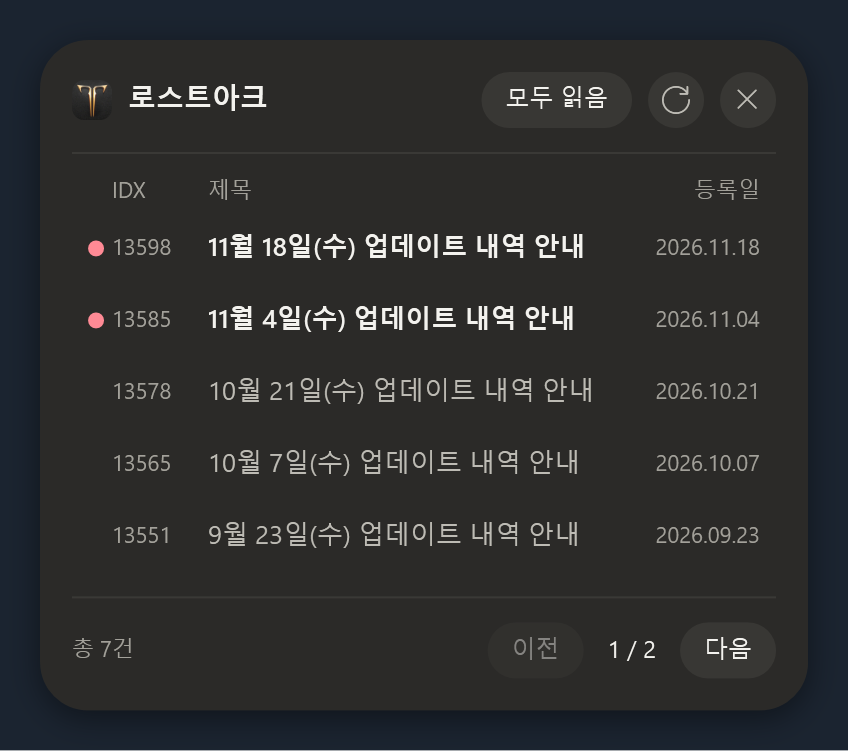
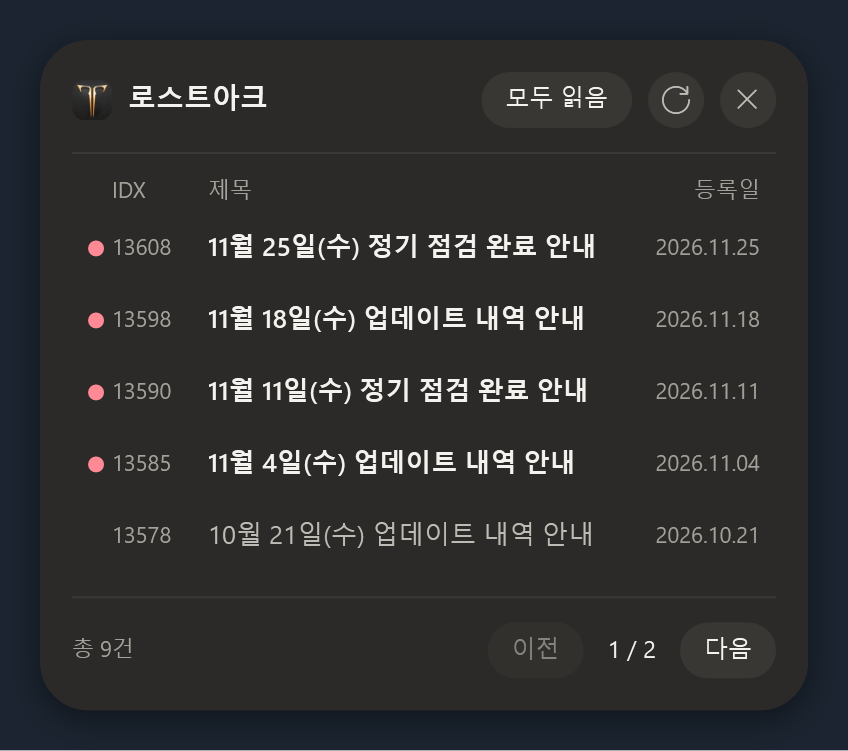
Lost Ark: also show "정기 점검 완료" notices, and fix today's dates
Weekly maintenance ends with either "업데이트 내역 안내" or
"정기 점검 완료 안내" (all 108 regular maintenances from 2024-11 to
2026-11), and the widget only looked for the first, so it missed every
other week lately.

- Providers take ExtraUrls; Lost Ark merges a second title search.
- games.json still on the old Lost Ark default is upgraded on start.
- Read the date from data-utc: posts from today showed "1시간 전" and
  sorted last.
- Rows drop the game name, which the header already shows, so the
  words that matter aren't cut off. The full title is in the tooltip.

diff --git a/Services/StorageService.cs b/Services/StorageService.cs
@@ -46,7 +46,11 @@ namespace PatchNoteMailbox.Services
             {
                 string raw = File.ReadAllText(_gamesPath, Encoding.UTF8);
                 var list = _json.Deserialize<List<GameConfig>>(raw);
-                if (list != null) return list;
+                if (list != null)
+                {
+                    if (MigrateLostArk(list)) { try { SaveGames(list); } catch { } }
+                    return list;
+                }
             }
             catch { }
             return CreateDefaultGames();
@@ -89,11 +93,40 @@ namespace PatchNoteMailbox.Services
             return Path.Combine(_iconsDir, gameId + ".png");
         }
 
+        // 제목 검색: '업데이트 내역 안내', '정기 점검 완료'
+        const string LostArkUpdateUrl = "https://lostark.game.onstove.com/News/Notice/List?searchtype=title&searchtext=%EC%97%85%EB%8D%B0%EC%9D%B4%ED%8A%B8%20%EB%82%B4%EC%97%AD%20%EC%95%88%EB%82%B4";
+        const string LostArkMaintenanceDoneUrl = "https://lostark.game.onstove.com/News/Notice/List?searchtype=title&searchtext=%EC%A0%95%EA%B8%B0%20%EC%A0%90%EA%B2%80%20%EC%99%84%EB%A3%8C";
+        static readonly string[] LostArkTitles = { "업데이트 내역 안내", "정기 점검 완료" };
+
+        /// <summary>
+        /// Brings a Lost Ark entry that still has the old default (update notices only) up to the current one.
+        /// An entry the user edited is left alone. Returns true when something changed.
+        /// </summary>
+        static bool MigrateLostArk(List<GameConfig> games)
+        {
+            foreach (var g in games)
+            {
+                if (g == null || g.Id != "lostark" || g.Provider == null) continue;
+                var p = g.Provider;
+                var inc = p.Filter == null ? null : p.Filter.TitleIncludes;
+                bool oldDefault = p.Url == LostArkUpdateUrl
+                    && (p.ExtraUrls == null || p.ExtraUrls.Count == 0)
+                    && inc != null && inc.Count == 1 && inc[0] == "업데이트 내역 안내";
+                if (!oldDefault) return false;
+                p.ExtraUrls = new List<string> { LostArkMaintenanceDoneUrl };
+                p.Filter.TitleIncludes = new List<string>(LostArkTitles);
+                return true;
+            }
+            return false;
+        }
+
         public static List<GameConfig> CreateDefaultGames()
         {
             var list = new List<GameConfig>();
 
-            // 1. 로스트아크 (API 키 불필요 - 공식 공지사항 HTML 파싱 + '업데이트 내역 안내' 필터)
+            // 1. 로스트아크 (API 키 불필요 - 공식 공지사항 HTML 파싱)
+            // 수요일 정기 점검은 '업데이트 내역 안내' 또는 '정기 점검 완료 안내' 중 하나로 끝난다
+            // (2024.11-2026.11 정기 점검 108회 모두). 제목 검색 두 개를 합쳐서 가져온다.
             var lostArk = new GameConfig
             {
                 Id = "lostark",
@@ -103,7 +136,8 @@ namespace PatchNoteMailbox.Services
                 Provider = new ProviderConfig
                 {
                     Type = "html-regex",
-                    Url = "https://lostark.game.onstove.com/News/Notice/List?searchtype=title&searchtext=%EC%97%85%EB%8D%B0%EC%9D%B4%ED%8A%B8%20%EB%82%B4%EC%97%AD%20%EC%95%88%EB%82%B4",
+                    Url = LostArkUpdateUrl,
+                    ExtraUrls = new List<string> { LostArkMaintenanceDoneUrl },
                     BaseUrl = "https://lostark.game.onstove.com",
                     ItemRegex = "<a href=\"(?<url>/News/Notice/Views/(?<idx>\\d+)[^\"]*)\"[^>]*>[\\s\\S]*?list__title\">(?<title>[\\s\\S]*?)</span>[\\s\\S]*?list__date\"[^>]*>(?<date>[\\s\\S]*?)</div>\\s*</a>",
                     IdGroup = "idx",
@@ -112,7 +146,7 @@ namespace PatchNoteMailbox.Services
                     UrlGroup = "url",
                     Filter = new FilterConfig
                     {
-                        TitleIncludes = new List<string> { "업데이트 내역 안내" }
+                        TitleIncludes = new List<string>(LostArkTitles)
                     }
                 }
             };

diff --git a/Services/PatchNoteFetcher.cs b/Services/PatchNoteFetcher.cs
@@ -67,28 +67,19 @@ namespace PatchNoteMailbox.Services
                 return new List<PatchNoteItem>();
 
             string type = (game.Provider.Type ?? "html-regex").Trim().ToLowerInvariant();
-            string body = await GetStringAsync(game.Provider.Url, game.Provider.Headers);
 
-            List<PatchNoteItem> rawItems;
-            if (type == "html-regex")
+            // Url plus any ExtraUrls, parsed the same way. If one page fails, the whole fetch fails,
+            // so the widget keeps its last good list instead of showing a partial one.
+            var urls = new List<string> { game.Provider.Url };
+            if (game.Provider.ExtraUrls != null)
+                foreach (var u in game.Provider.ExtraUrls)
+                    if (!string.IsNullOrWhiteSpace(u)) urls.Add(u);
+
+            var rawItems = new List<PatchNoteItem>();
+            foreach (var url in urls)
             {
-                rawItems = ParseHtmlRegex(body, game.Provider);
-            }
-            else if (type == "next-data")
-            {
-                rawItems = ParseNextData(body, game.Provider);
-            }
-            else if (type == "json-api")
-            {
-                rawItems = ParseJsonApi(body, game.Provider);
-            }
-            else if (type == "rss")
-            {
-                rawItems = ParseRss(body, game.Provider);
-            }
-            else
-            {
-                throw new NotSupportedException("지원하지 않는 수집 어댑터 타입: " + type);
+                string body = await GetStringAsync(url, game.Provider.Headers);
+                rawItems.AddRange(Parse(type, body, game.Provider));
             }
 
             // Apply common filter + deduplicate + sort latest-first
@@ -116,6 +107,15 @@ namespace PatchNoteMailbox.Services
             });
 
             return filtered;
+        }
+
+        private List<PatchNoteItem> Parse(string type, string body, ProviderConfig p)
+        {
+            if (type == "html-regex") return ParseHtmlRegex(body, p);
+            if (type == "next-data") return ParseNextData(body, p);
+            if (type == "json-api") return ParseJsonApi(body, p);
+            if (type == "rss") return ParseRss(body, p);
+            throw new NotSupportedException("지원하지 않는 수집 어댑터 타입: " + type);
         }
 
         private async Task<string> GetStringAsync(string url, Dictionary<string, string> headers)
@@ -158,7 +158,7 @@ namespace PatchNoteMailbox.Services
             {
                 string idx = m.Groups[idGrp].Success ? CleanText(m.Groups[idGrp].Value) : "";
                 string title = m.Groups[titleGrp].Success ? CleanText(m.Groups[titleGrp].Value) : "";
-                string rawDate = m.Groups[dateGrp].Success ? CleanText(m.Groups[dateGrp].Value) : "";
+                string rawDate = m.Groups[dateGrp].Success ? DateText(m.Groups[dateGrp].Value) : "";
                 string url = m.Groups[urlGrp].Success ? WebUtility.HtmlDecode(m.Groups[urlGrp].Value.Trim()) : "";
 
                 if (string.IsNullOrWhiteSpace(idx) && !string.IsNullOrWhiteSpace(url))
@@ -421,6 +421,16 @@ namespace PatchNoteMailbox.Services
                 return baseUrl.TrimEnd('/') + "/" + url.TrimStart('/');
             }
             return url;
+        }
+
+        /// <summary>
+        /// Lost Ark shows today's posts as relative text ("1시간 전") but always carries the exact time in
+        /// data-utc. Prefer a machine-readable time in the captured markup over its visible text.
+        /// </summary>
+        private static string DateText(string rawHtml)
+        {
+            var m = Regex.Match(rawHtml ?? "", "(?:data-utc|datetime)=\"([^\"]+)\"", RegexOptions.IgnoreCase);
+            return m.Success ? m.Groups[1].Value.Trim() : CleanText(rawHtml);
         }
 
         private static string NormalizeDate(string rawDate, out long sortKey)

diff --git a/UI/PopoverWindow.cs b/UI/PopoverWindow.cs
@@ -104,6 +104,15 @@ namespace PatchNoteMailbox.UI
             Activate();
         }
 
+        private string ShortTitle(string t)
+        {
+            if (_game == null || string.IsNullOrEmpty(_game.Name) || string.IsNullOrEmpty(t)) return t;
+            int i = t.IndexOf(_game.Name, StringComparison.Ordinal);
+            // Only when the name is inside the title, not the whole of it ("리그 오브 레전드 26.23 패치 노트" stays).
+            if (i <= 0) return t;
+            return (t.Substring(0, i) + t.Substring(i + _game.Name.Length)).Replace("  ", " ").Trim();
+        }
+
         public void RefreshView(GameCacheEntry cache, GameStatus status)
         {
             if (_game == null) return;
@@ -318,7 +327,10 @@ namespace PatchNoteMailbox.UI
 
             AddCell(g, 1, Ui.Text(item.Idx, TextStyle.Caption), HorizontalAlignment.Left);
 
-            var title = Ui.Text(item.Title, TextStyle.Body, isRead ? p.TextSecondary : p.TextPrimary);
+            // The header already names the game, so drop it from the row ("… 로스트아크 정기 점검 완료 안내"
+            // would otherwise be cut before the words that matter). The full title stays in the tooltip.
+            var title = Ui.Text(ShortTitle(item.Title), TextStyle.Body, isRead ? p.TextSecondary : p.TextPrimary);
+            title.ToolTip = item.Title;
             if (!isRead) title.FontWeight = FontWeights.SemiBold;
             title.Margin = new Thickness(0, 0, Tokens.Space2, 0);
             AddCell(g, 2, title, HorizontalAlignment.Left);

diff --git a/UI/DockWindow.cs b/UI/DockWindow.cs
@@ -682,7 +682,9 @@ namespace PatchNoteMailbox.UI
             {
                 Notes = new List<PatchNoteItem>
                 {
+                    new PatchNoteItem { Idx = "13608", Title = "11월 25일(수) 로스트아크 정기 점검 완료 안내", Date = "2026.11.25" },
                     new PatchNoteItem { Idx = "13598", Title = "11월 18일(수) 업데이트 내역 안내", Date = "2026.11.18" },
+                    new PatchNoteItem { Idx = "13590", Title = "11월 11일(수) 로스트아크 정기 점검 완료 안내", Date = "2026.11.11" },
                     new PatchNoteItem { Idx = "13585", Title = "11월 4일(수) 업데이트 내역 안내", Date = "2026.11.04" },
                     new PatchNoteItem { Idx = "13578", Title = "10월 21일(수) 업데이트 내역 안내", Date = "2026.10.21" },
                     new PatchNoteItem { Idx = "13565", Title = "10월 7일(수) 업데이트 내역 안내", Date = "2026.10.07" },

diff --git a/Models/Models.cs b/Models/Models.cs
@@ -25,6 +25,8 @@ namespace PatchNoteMailbox.Models
         /// </summary>
         public string Type { get; set; }
         public string Url { get; set; }
+        /// <summary>More pages parsed the same way as Url; their items are merged (for example two title searches).</summary>
+        public List<string> ExtraUrls { get; set; }
         public string BaseUrl { get; set; }
         public Dictionary<string, string> Headers { get; set; }
 

diff --git a/README.md b/README.md
@@ -48,7 +48,9 @@ No API keys or headless browsers are required. Every source runs through a singl
 
 ### Lost Ark (`html-regex`)
 
-Fetches the official Korean Lost Ark notice list and filters strictly to posts containing **`업데이트 내역 안내`** in the title, extracting each post's numeric `idx`, title, date, and direct link.
+Fetches the official Korean Lost Ark notice list with two title searches and keeps posts containing **`업데이트 내역 안내`** (update notes) or **`정기 점검 완료`** (weekly maintenance done), extracting each post's numeric `idx`, title, date, and direct link. Every regular maintenance from November 2024 to November 2026 (108 in all) ended with exactly one of these two posts. Emergency maintenance (`임시 점검`) is left out.
+
+The searches are `Url` plus `ExtraUrls` in `games.json`; their results are merged. An existing `games.json` that still has the old Lost Ark default (update notes only) is upgraded on start; an entry you edited is left alone.
 
 ### League of Legends (`next-data`)
 
